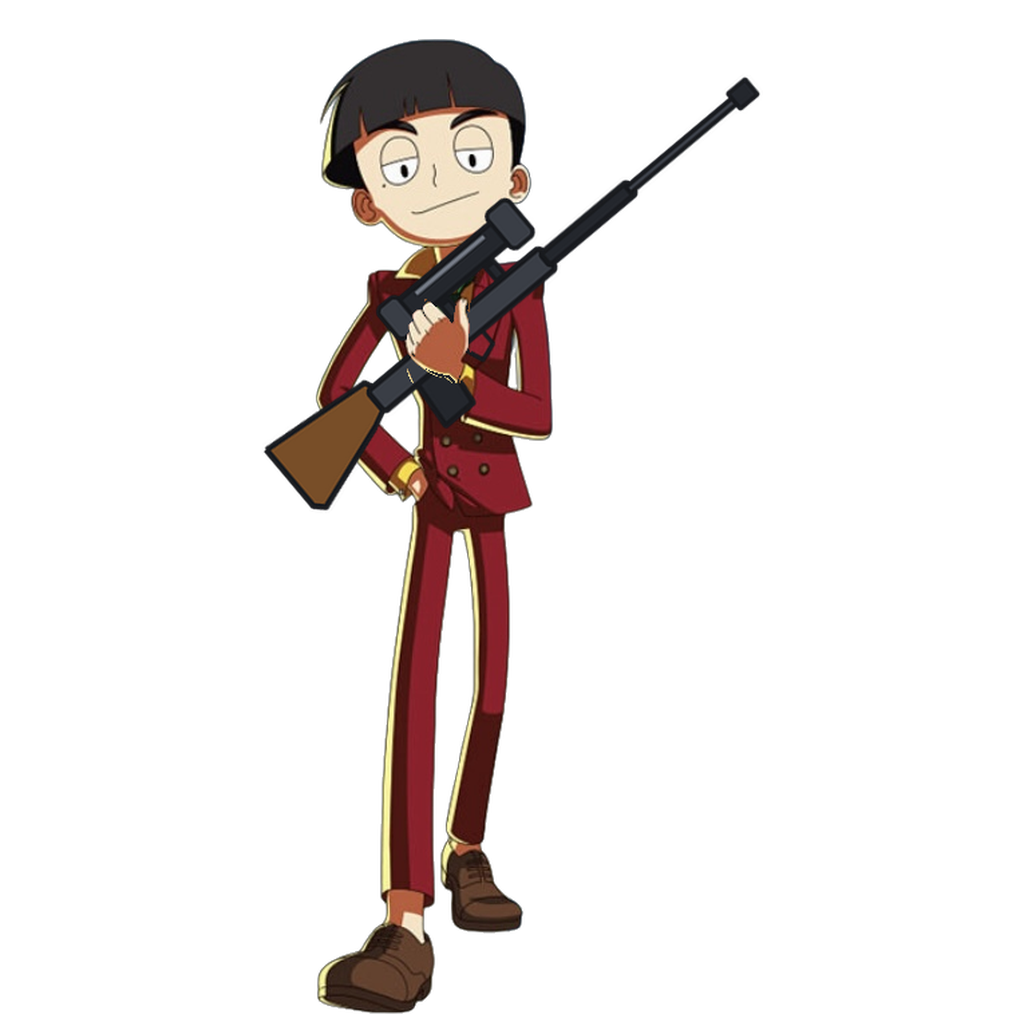
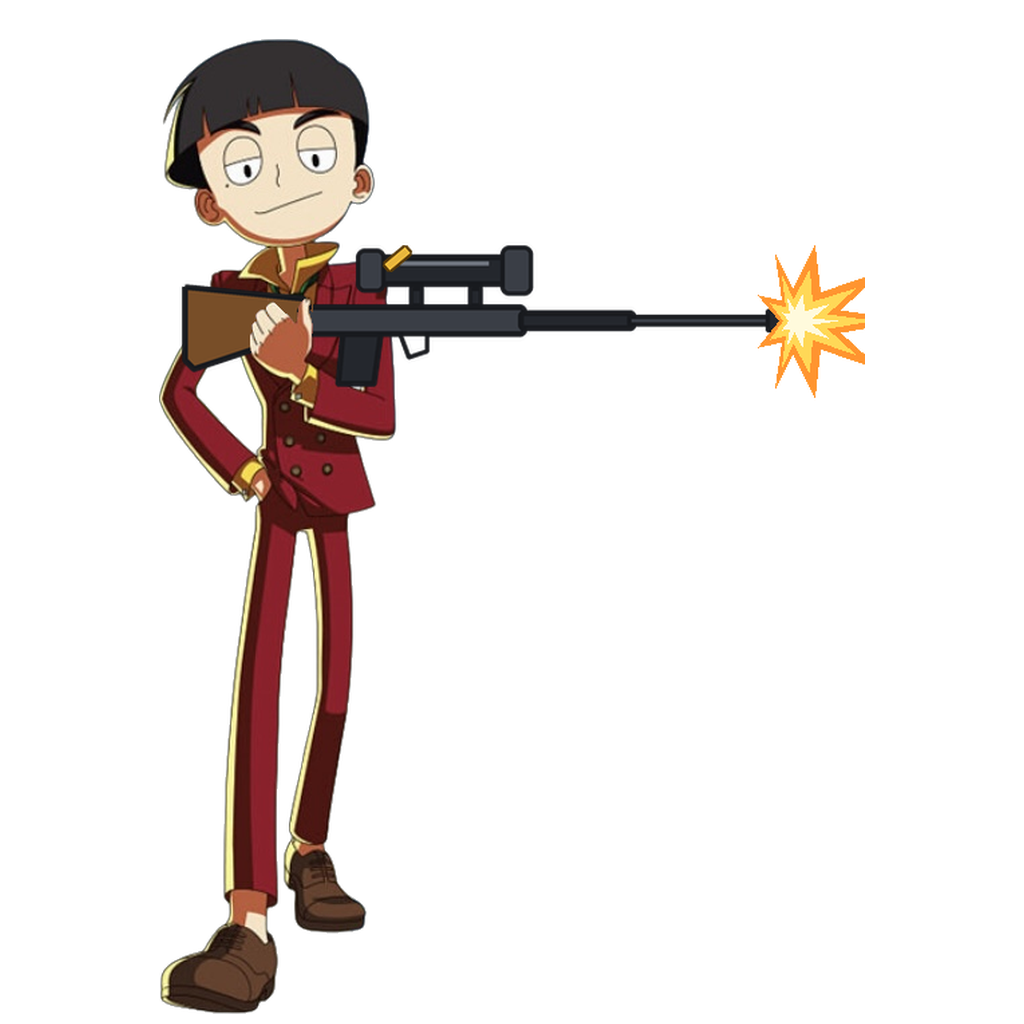
새 캐릭터 4명을 총을 쏘는 모습으로
- 코드네임 X 돌격소총 허리 사격, 코드네임 V 쌍권총 양옆 사격, 코드네임 R 저격총 수평 사격,
  시리우스 K는 위로 들던 권총을 앞을 겨눠 쏘는 모습으로 다시 그림. 모두 총구 불꽃·탄피
- 총이 한쪽으로 뻗어 몸 판정 기준점(bodyAnchor) 가로 위치를 몸 가운데로 다시 잼
- README·이미지 이력 갱신

Claude-Session: https://claude.ai/code/session_01GKnr3itsPwDzS3pyF6CQR6

Changed region(s): [[0.1562, 0.0312, 0.8438, 1.0], [0.6875, 0.0625, 0.75, 0.125]]

diff --git a/README.md b/README.md
@@ -66,14 +66,14 @@ B를 눌렀을 때 누를 버튼은 화면마다 `index.html`의 `data-pad-cance
 
 기본 선택은 그림 속 무기와 같습니다: 온이름 쌍권총, 요원 1 권총, 피자럭스 돌격소총, 요원 2 RPG.
 
-**지구방위팀 요원 · 코드네임 X·V·R, 시리우스 K**: 캐릭터 선택 화면에 네 명이 더 있습니다. 그림은 사용자가 준 캐릭터 소개 그림(사용 허락 받음)에서 배경을 지우고, 정해진 무기를 쥐게 덧그렸습니다. 이 캐릭터를 고르면 주무기도 그림 속 무기로 바뀌며, 그 뒤에 다른 무기로 바꿀 수 있습니다. 체력·히트박스·이동 속도는 다른 사람 캐릭터와 같고(500·30·300), 키 큰 전신 그림이라 1.2배로 그립니다.
+**지구방위팀 요원 · 코드네임 X·V·R, 시리우스 K**: 캐릭터 선택 화면에 네 명이 더 있습니다. 그림은 사용자가 준 캐릭터 소개 그림(사용 허락 받음)에서 배경을 지우고, 정해진 무기로 **총을 쏘는 모습**(총구 불꽃·탄피)으로 손질했습니다. 이 캐릭터를 고르면 주무기도 그림 속 무기로 바뀌며, 그 뒤에 다른 무기로 바꿀 수 있습니다. 체력·히트박스·이동 속도는 다른 사람 캐릭터와 같고(500·30·300), 키 큰 전신 그림이라 1.2배로 그립니다.
 
 | 캐릭터 | 그림 속 무기 | 그림 손질 |
 | --- | --- | --- |
-| 코드네임 X | 돌격소총 | 들고 있던 스케이트보드를 지우고 그 손에 돌격소총 |
-| 코드네임 V | 쌍권총 | 브이 하던 두 손에 위로 든 권총 한 자루씩 |
-| 코드네임 R | 저격총 | 가슴 앞 손으로 저격총을 비스듬히 쥠 |
-| 시리우스 K | 권총 | 원래 권총을 든 그림(겹쳐 있던 아이콘만 지우고, 오른쪽을 보게 좌우 반전) |
+| 코드네임 X | 돌격소총 | 들고 있던 스케이트보드를 지우고, 그 손으로 돌격소총을 허리 높이에서 쏨 |
+| 코드네임 V | 쌍권총 | 브이 하던 손가락을 지우고, 두 주먹의 권총으로 양옆을 쏨 |
+| 코드네임 R | 저격총 | 가슴 앞 손으로 저격총을 수평으로 겨눠 쏨 |
+| 시리우스 K | 권총 | 위로 들던 권총을 장갑 낀 두 손으로 앞을 겨눠 쏘는 모습으로 바꿈(겹쳐 있던 아이콘을 지우고, 오른쪽을 보게 좌우 반전) |
 
 **주무기**
 

diff --git a/docs/07-generation-log.md b/docs/07-generation-log.md
@@ -65,6 +65,8 @@ Use case: stylized-concept. Asset type: landscape 3:2 background plate for a pla
 - 이미지 생성 모델은 쓰지 않았다. 다음 순서로 손질했다.
   1. 배경 제거: `rembg`의 `isnet-anime` 모델.
   2. 무기: 만화풍 돌격소총·권총·저격총을 Pillow로 직접 그려(검은 외곽선, 어두운 회색 몸체) 손 위치에 돌려 붙이고, 손 부분은 원본 픽셀을 다시 덮어 쥔 것처럼 보이게 했다.
-  3. 코드네임 X는 스케이트보드를 지웠고, 코드네임 V는 브이 하던 손가락을 지우고 위로 든 권총(슬라이드)을 두 주먹에 쥐였다.
-  4. 시리우스 K는 원래 권총을 든 그림이라 무기는 그대로 두고, 그림 위에 겹친 이미지 검색 아이콘을 지운 뒤 다리 부분을 주변 색으로 메웠다(OpenCV inpaint). 게임 그림은 오른쪽을 보게 좌우 반전했다.
+  3. 모두 총을 쏘는 모습으로 만들었다: 총구 쪽에 별 모양 총구 불꽃(주황·노랑·흰색 세 겹)과 튀는 탄피를 그렸다.
+     코드네임 X는 스케이트보드를 지우고 돌격소총을 허리 높이로, 코드네임 V는 브이 하던 손가락을 지우고 두 주먹의 권총을 양옆(바깥쪽)으로, 코드네임 R은 저격총을 가슴 높이에서 수평으로 겨눈다.
+  4. 시리우스 K는 원래 위로 들던 권총을 지우고(총 자리를 지운 뒤 장갑·엄지를 원본으로 다시 덮음) 앞을 겨눠 쏘는 권총을 그려 넣었다. 그림 위에 겹친 이미지 검색 아이콘을 지운 뒤 다리 부분을 주변 색으로 메웠다(OpenCV inpaint). 게임 그림은 오른쪽을 보게 좌우 반전했다.
+  6. 총이 한쪽으로 뻗어 있어 몸 판정 기준점(bodyAnchor)의 가로 위치는 다리(코드네임 V는 몸통) 가운데로 다시 쟀다.
   5. 그림판 아래쪽에 발이 오게 키 975px로 맞추고 가운데 정렬했다. 시리우스 K는 원본 그림에서 발끝이 잘려 있어 무릎 아래가 그림판 끝에서 잘린다.
